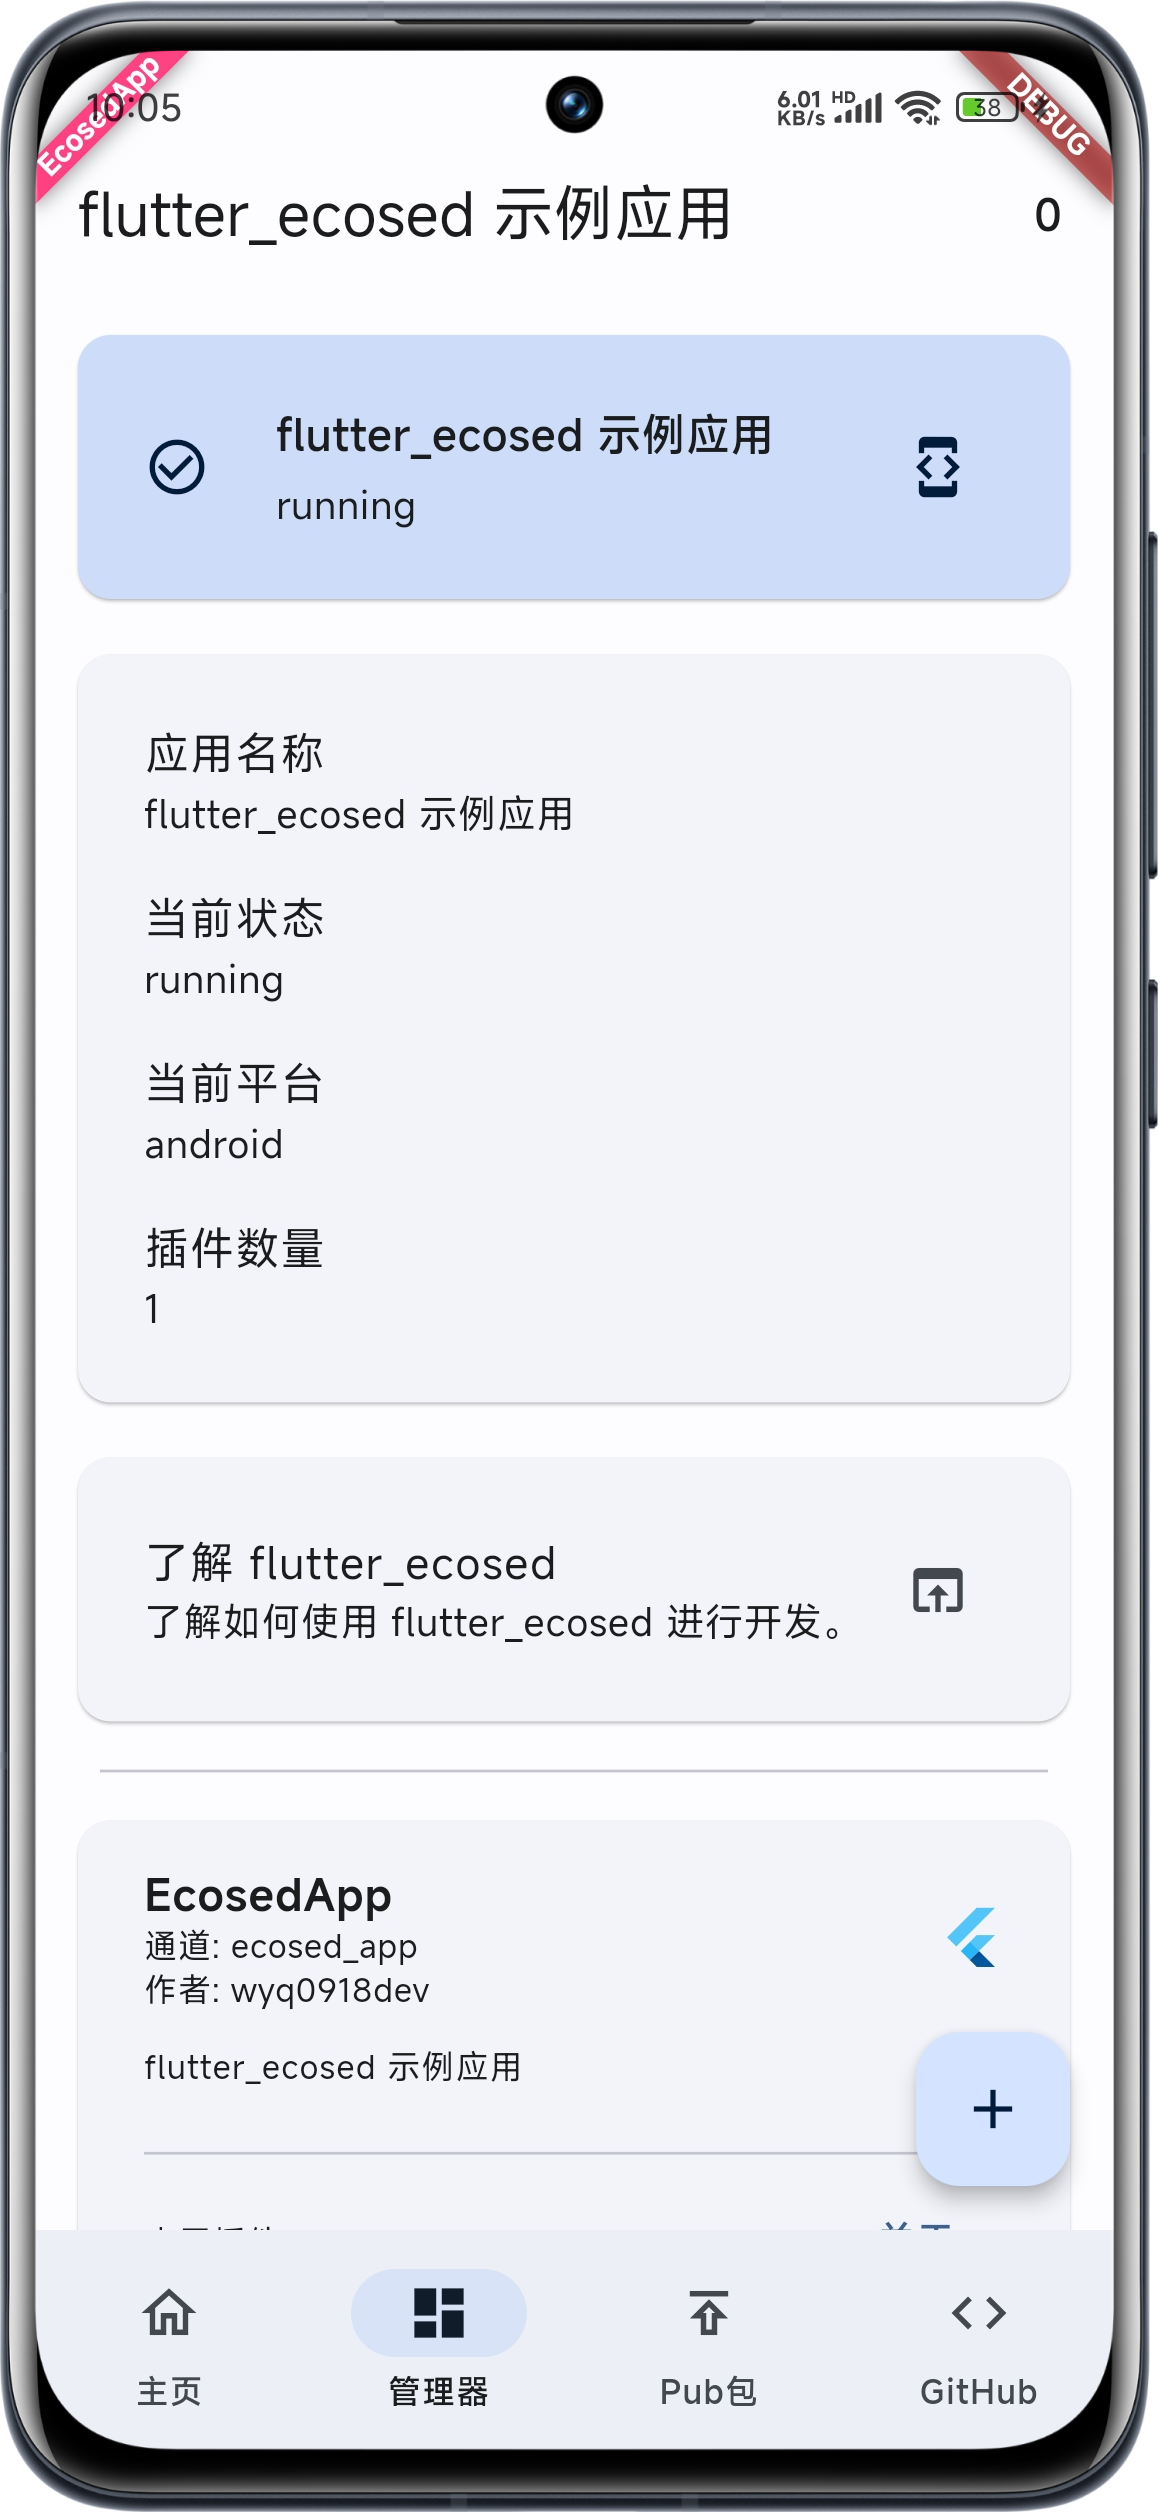
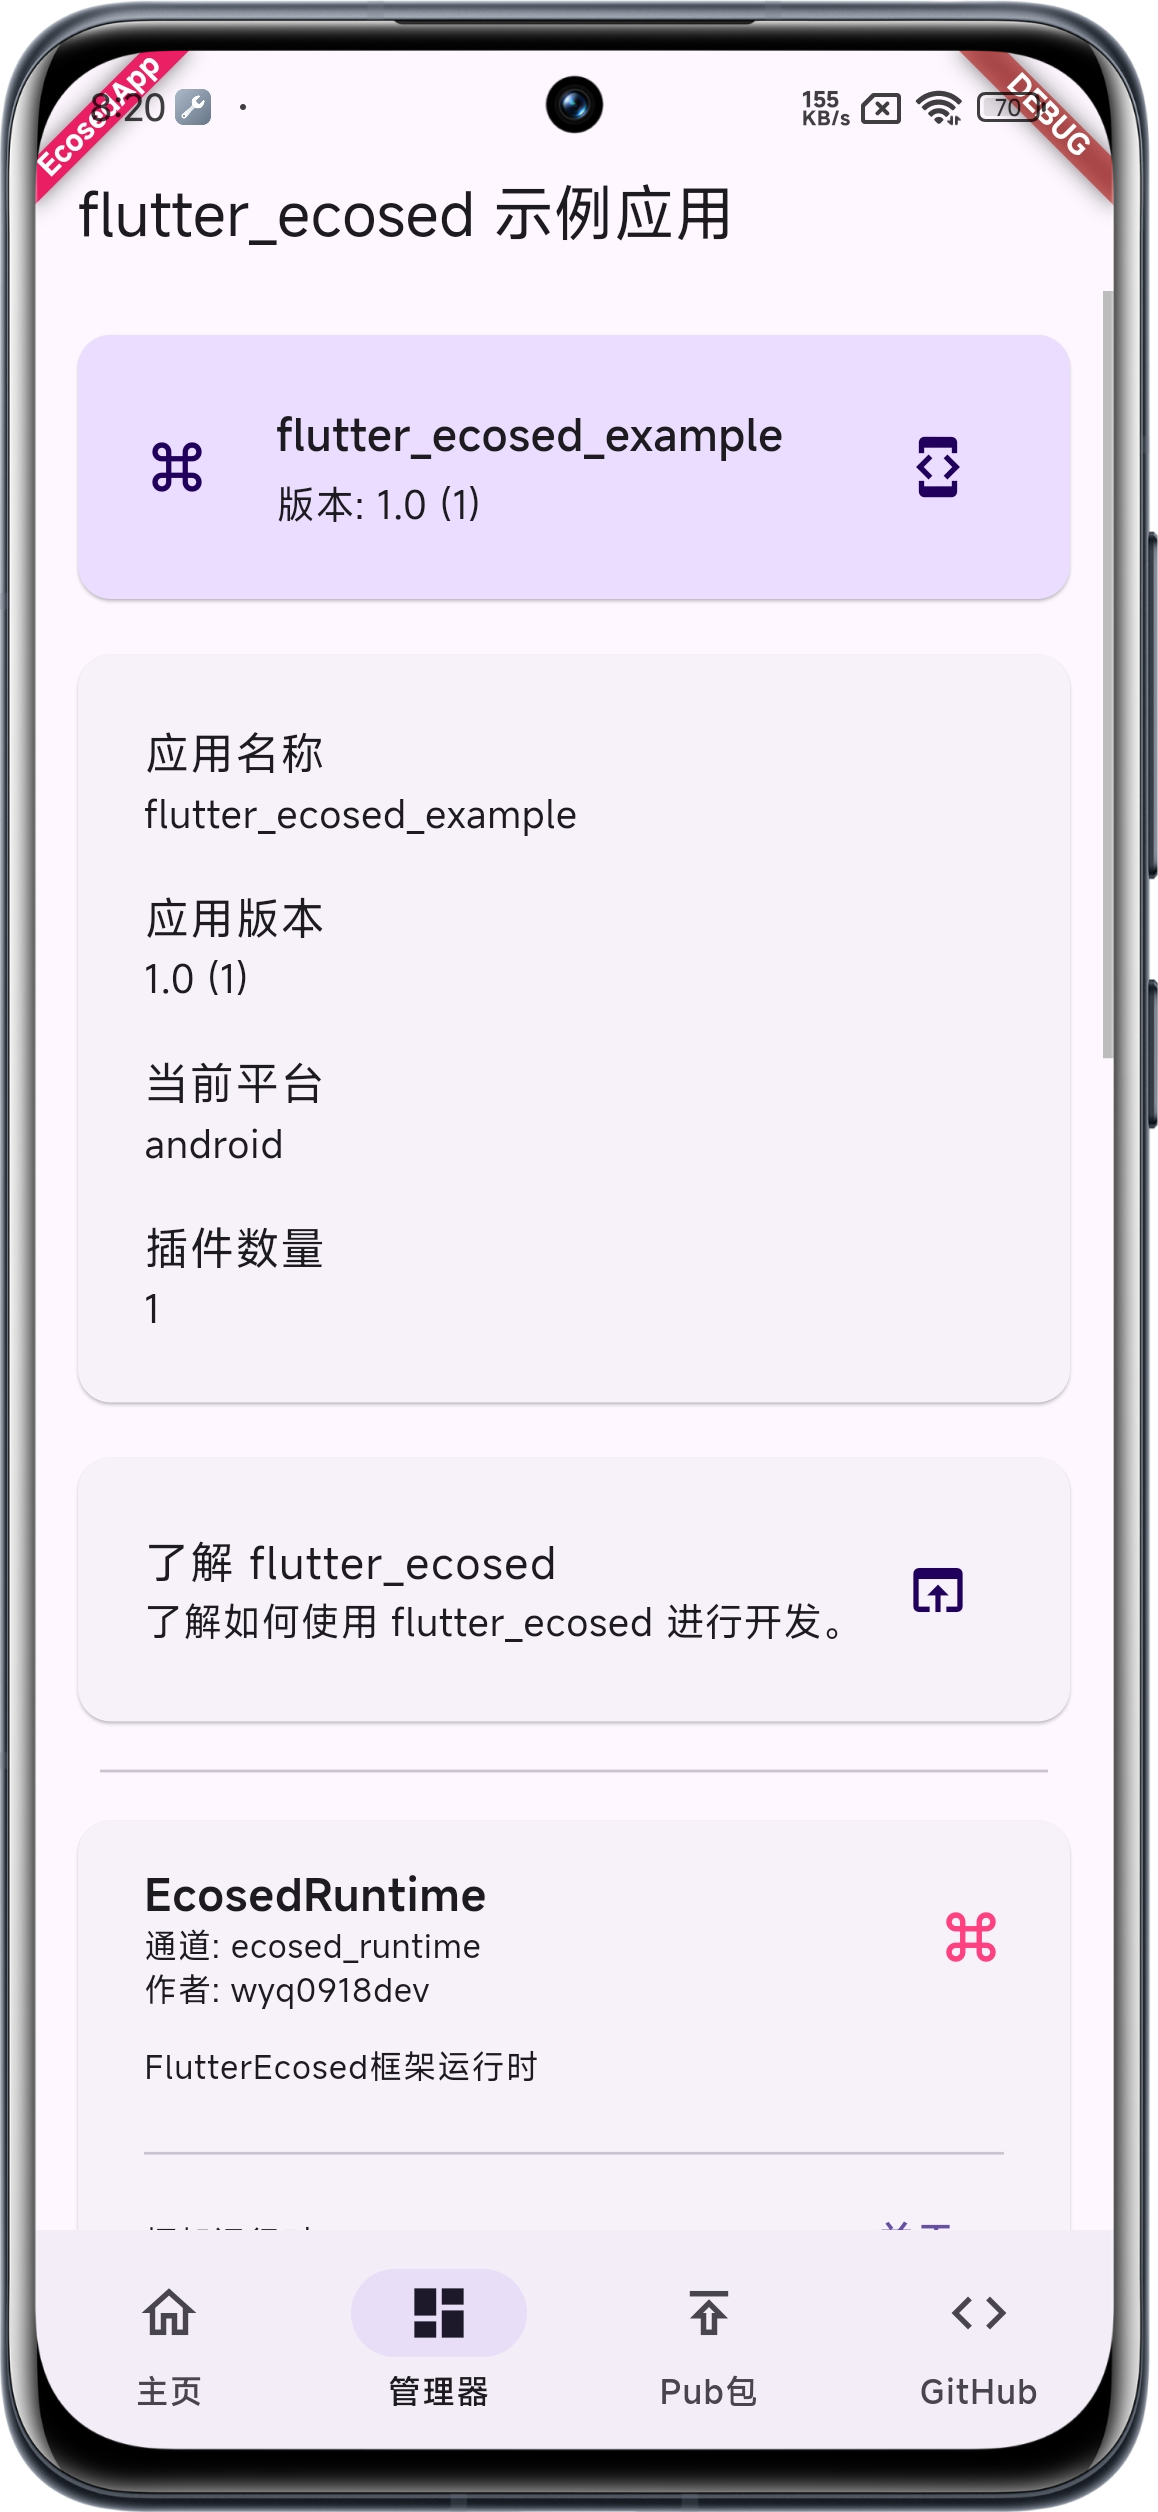
commit

diff --git a/example/lib/main.dart b/example/lib/main.dart
@@ -1,7 +1,6 @@
 import 'dart:async';
 import 'dart:io';
 
-import 'package:dynamic_color/dynamic_color.dart';
 import 'package:flutter/foundation.dart';
 import 'package:flutter/material.dart';
 import 'package:flutter/services.dart';
@@ -290,49 +289,43 @@ class _NavigationTransitionState extends State<NavigationTransition> {
 
   @override
   Widget build(BuildContext context) {
-    return DynamicColorBuilder(
-      builder: (light, dark) {
-        return MaterialApp(
-          home: Scaffold(
-            key: widget.scaffoldKey,
-            appBar: widget.appBar(Global.appName),
-            body: Row(
-              children: <Widget>[
-                RailTransition(
-                  animation: railAnimation,
-                  backgroundColor: Theme.of(context).colorScheme.surface,
-                  child: widget.navigationRail,
-                ),
-                widget.body,
-              ],
-            ),
-            bottomNavigationBar: BarTransition(
-              animation: barAnimation,
+    return MaterialApp(
+      home: Scaffold(
+        key: widget.scaffoldKey,
+        appBar: widget.appBar(Global.appName),
+        body: Row(
+          children: <Widget>[
+            RailTransition(
+              animation: railAnimation,
               backgroundColor: Theme.of(context).colorScheme.surface,
-              child: widget.navigationBar,
+              child: widget.navigationRail,
             ),
-            floatingActionButton: widget.floatingActionButton,
-          ),
-          title: Global.appName,
-          themeMode: ThemeMode.system,
-          theme: ThemeData(
-            colorScheme: light,
-            pageTransitionsTheme: const PageTransitionsTheme(
-              builders: {
-                TargetPlatform.android: PredictiveBackPageTransitionsBuilder(),
-              },
-            ),
-          ),
-          darkTheme: ThemeData(
-            colorScheme: dark,
-            pageTransitionsTheme: const PageTransitionsTheme(
-              builders: {
-                TargetPlatform.android: PredictiveBackPageTransitionsBuilder(),
-              },
-            ),
-          ),
-        );
-      },
+            widget.body,
+          ],
+        ),
+        bottomNavigationBar: BarTransition(
+          animation: barAnimation,
+          backgroundColor: Theme.of(context).colorScheme.surface,
+          child: widget.navigationBar,
+        ),
+        floatingActionButton: widget.floatingActionButton,
+      ),
+      title: Global.appName,
+      themeMode: ThemeMode.system,
+      theme: ThemeData(
+        pageTransitionsTheme: const PageTransitionsTheme(
+          builders: {
+            TargetPlatform.android: PredictiveBackPageTransitionsBuilder(),
+          },
+        ),
+      ),
+      darkTheme: ThemeData(
+        pageTransitionsTheme: const PageTransitionsTheme(
+          builders: {
+            TargetPlatform.android: PredictiveBackPageTransitionsBuilder(),
+          },
+        ),
+      ),
     );
   }
 }

diff --git a/example/macos/Flutter/GeneratedPluginRegistrant.swift b/example/macos/Flutter/GeneratedPluginRegistrant.swift
@@ -5,12 +5,10 @@
 import FlutterMacOS
 import Foundation
 
-import dynamic_color
 import package_info_plus
 import url_launcher_macos
 
 func RegisterGeneratedPlugins(registry: FlutterPluginRegistry) {
-  DynamicColorPlugin.register(with: registry.registrar(forPlugin: "DynamicColorPlugin"))
   FPPPackageInfoPlusPlugin.register(with: registry.registrar(forPlugin: "FPPPackageInfoPlusPlugin"))
   UrlLauncherPlugin.register(with: registry.registrar(forPlugin: "UrlLauncherPlugin"))
 }

diff --git a/example/linux/flutter/generated_plugin_registrant.cc b/example/linux/flutter/generated_plugin_registrant.cc
@@ -6,13 +6,9 @@
 
 #include "generated_plugin_registrant.h"
 
-#include <dynamic_color/dynamic_color_plugin.h>
 #include <url_launcher_linux/url_launcher_plugin.h>
 
 void fl_register_plugins(FlPluginRegistry* registry) {
-  g_autoptr(FlPluginRegistrar) dynamic_color_registrar =
-      fl_plugin_registry_get_registrar_for_plugin(registry, "DynamicColorPlugin");
-  dynamic_color_plugin_register_with_registrar(dynamic_color_registrar);
   g_autoptr(FlPluginRegistrar) url_launcher_linux_registrar =
       fl_plugin_registry_get_registrar_for_plugin(registry, "UrlLauncherPlugin");
   url_launcher_plugin_register_with_registrar(url_launcher_linux_registrar);

diff --git a/example/windows/flutter/generated_plugin_registrant.cc b/example/windows/flutter/generated_plugin_registrant.cc
@@ -6,12 +6,9 @@
 
 #include "generated_plugin_registrant.h"
 
-#include <dynamic_color/dynamic_color_plugin_c_api.h>
 #include <url_launcher_windows/url_launcher_windows.h>
 
 void RegisterPlugins(flutter::PluginRegistry* registry) {
-  DynamicColorPluginCApiRegisterWithRegistrar(
-      registry->GetRegistrarForPlugin("DynamicColorPluginCApi"));
   UrlLauncherWindowsRegisterWithRegistrar(
       registry->GetRegistrarForPlugin("UrlLauncherWindows"));
 }
